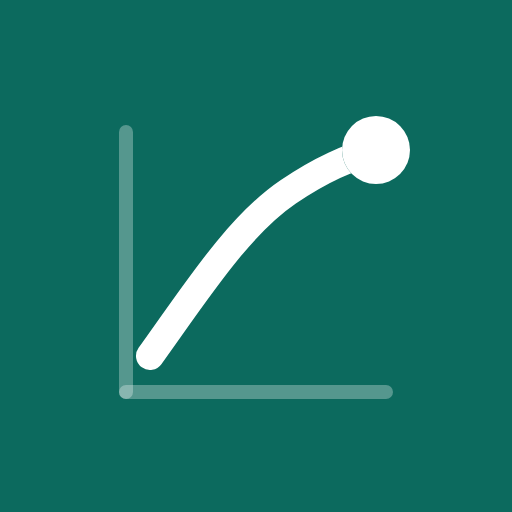
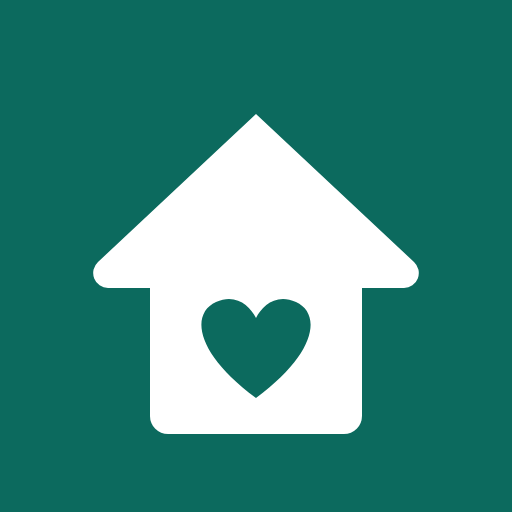
Une maison, un cœur à la place de la porte
Le logo devient une maison, choisie parmi six pistes. Silhouette blanche
pleine sur le vert de l'app : ce sont des masses, pas des traits, et elles
tiennent à la taille réelle d'une icône d'écran d'accueil, là où un
pictogramme au trait se referme. Le cœur remplace la porte — le carnet parle
d'une maison et de qui s'y occupe du bébé.

Les quatre tailles sont refaites, dont la version masquable, dont le motif
est rentré dans la zone sûre pour survivre au rognage rond d'Android.

Le cache hors-ligne est vidé : sans cela, une app déjà installée garderait
l'ancienne icône.

Claude-Session: https://claude.ai/code/session_015rZ4XCX9LN7Fw6RKvHTQHh

Changed region(s): [[0.1875, 0.2188, 0.8125, 0.875]]

diff --git a/docs/sw.js b/docs/sw.js
@@ -5,7 +5,7 @@
  * Bump CACHE when any of those files change: the old cache is then dropped.
  */
 
-var CACHE = "carnet-de-bebe-v5";
+var CACHE = "carnet-de-bebe-v6";
 
 var SHELL = [
   ".",
